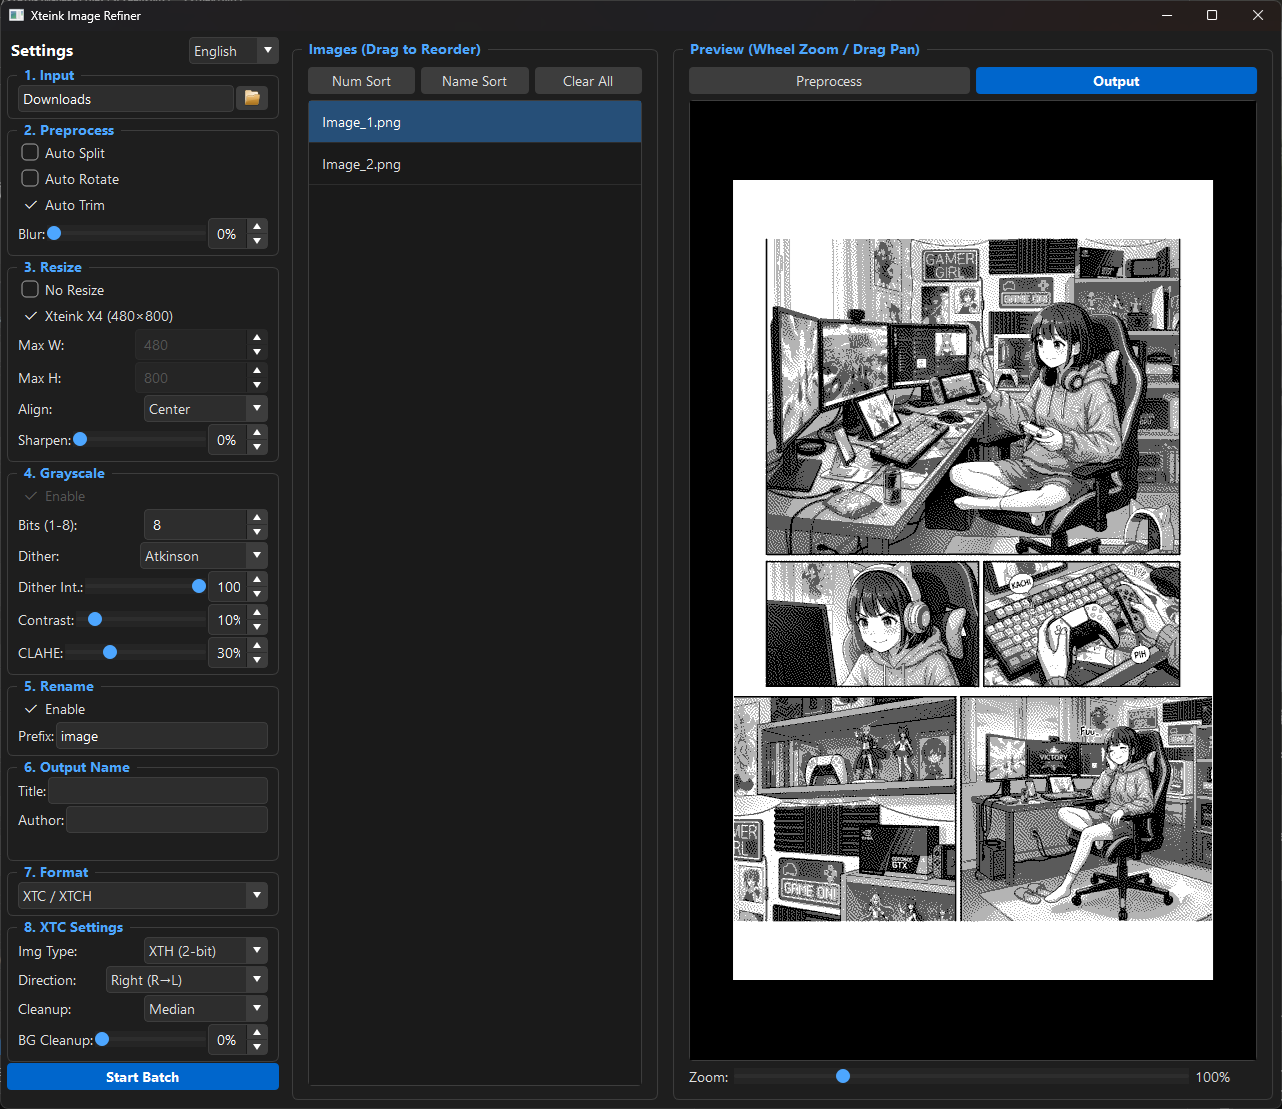
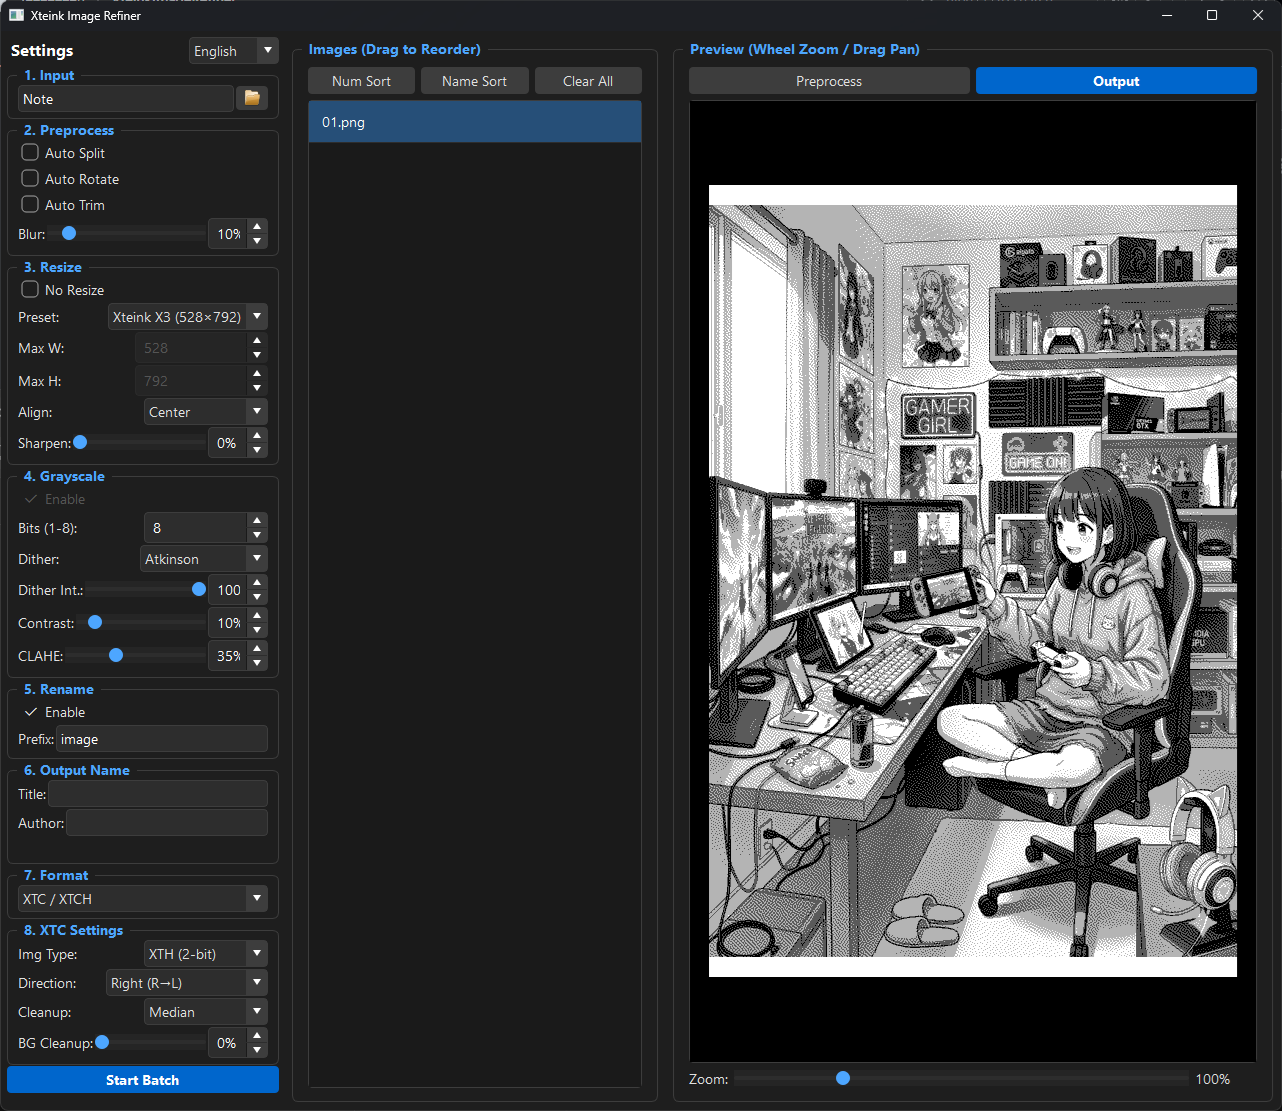
add preset X3 and bug fix

diff --git a/main.py b/main.py
@@ -50,6 +50,8 @@ _TRANSLATIONS = {
     "chk_auto_rotate":      {"ja": "自動回転",                "en": "Auto Rotate"},
     "chk_auto_trim":        {"ja": "余白自動トリミング",      "en": "Auto Trim"},
     "chk_no_resize":        {"ja": "リサイズなし",            "en": "No Resize"},
+    "lbl_preset":           {"ja": "プリセット:",             "en": "Preset:"},
+    "combo_preset_none":    {"ja": "なし",                    "en": "None"},
     "chk_enable":           {"ja": "有効にする",              "en": "Enable"},
     "chk_jpeg":             {"ja": "JPEG変換 (.jpg)",         "en": "JPEG Conv. (.jpg)"},
     # ラベル
@@ -724,9 +726,18 @@ class ImageEditorApp(QMainWindow):
         self.no_resize_check.toggled.connect(self.on_no_resize_changed)
         resize_grid.addWidget(self.no_resize_check)
 
-        self.x4_check = QCheckBox("Xteink X4 (480×800)")
-        self.x4_check.toggled.connect(self.on_x4_changed)
-        resize_grid.addWidget(self.x4_check)
+        preset_layout = QHBoxLayout()
+        self._preset_label = QLabel(_tr("lbl_preset", self._lang))
+        preset_layout.addWidget(self._preset_label)
+        self.preset_combo = QComboBox()
+        self.preset_combo.addItems([
+            _tr("combo_preset_none", self._lang),
+            "Xteink X3 (528×792)",
+            "Xteink X4 (480×800)",
+        ])
+        self.preset_combo.currentIndexChanged.connect(self.on_preset_changed)
+        preset_layout.addWidget(self.preset_combo)
+        resize_grid.addLayout(preset_layout)
 
         w_layout = QHBoxLayout()
         self.width_label = QLabel(_tr("lbl_max_w", self._lang))
@@ -1188,6 +1199,7 @@ class ImageEditorApp(QMainWindow):
         self.jpeg_check.setText(_tr("chk_jpeg", lang))
 
         # ラベル
+        self._preset_label.setText(_tr("lbl_preset", lang))
         self._blur_label.setText(_tr("lbl_blur", lang))
         self.width_label.setText(_tr("lbl_max_w", lang))
         self.height_label.setText(_tr("lbl_max_h", lang))
@@ -1226,6 +1238,7 @@ class ImageEditorApp(QMainWindow):
             combo.setCurrentIndex(idx)
             combo.blockSignals(False)
 
+        _update_combo(self.preset_combo, [_tr("combo_preset_none", lang), "Xteink X3 (528×792)", "Xteink X4 (480×800)"])
         _update_combo(self.alignment_combo, [_tr("combo_center", lang), _tr("combo_top", lang)])
         _update_combo(self.output_format_combo, [_tr("combo_individual", lang), "EPUB3", "XTC / XTCH"])
         _update_combo(self.compress_combo, [_tr("combo_folder", lang), "ZIP (.zip)", "CBZ (.cbz)"])
@@ -1312,7 +1325,8 @@ class ImageEditorApp(QMainWindow):
     def _stop_trim_detection(self):
         if self._trim_detect_thread is not None:
             self._trim_detect_thread.abort()
-            self._trim_detect_thread.wait(3000)
+            if not self._trim_detect_thread.wait(3000):
+                self._trim_detect_thread.terminate()
             self._trim_detect_thread.deleteLater()
             self._trim_detect_thread = None
 
@@ -1433,10 +1447,12 @@ class ImageEditorApp(QMainWindow):
 
     def on_no_resize_changed(self, checked):
         no_resize = checked
+        preset_active = self.preset_combo.currentIndex() != 0
         # リサイズなし時は関連設定を無効化
-        self.x4_check.setEnabled(not no_resize)
-        self.width_spin.setEnabled(not no_resize and not self.x4_check.isChecked())
-        self.height_spin.setEnabled(not no_resize and not self.x4_check.isChecked())
+        self._preset_label.setEnabled(not no_resize)
+        self.preset_combo.setEnabled(not no_resize)
+        self.width_spin.setEnabled(not no_resize and not preset_active)
+        self.height_spin.setEnabled(not no_resize and not preset_active)
         self.width_label.setEnabled(not no_resize)
         self.height_label.setEnabled(not no_resize)
         self.alignment_label.setEnabled(not no_resize)
@@ -1449,15 +1465,18 @@ class ImageEditorApp(QMainWindow):
         self.zoom_slider.setValue(100)
         self.refresh_preview()
 
-    def on_x4_changed(self, checked):
+    def on_preset_changed(self, index):
         no_resize = self.no_resize_check.isChecked()
-        self.width_spin.setEnabled(not checked and not no_resize)
-        self.height_spin.setEnabled(not checked and not no_resize)
+        preset_active = index != 0
+        self.width_spin.setEnabled(not preset_active and not no_resize)
+        self.height_spin.setEnabled(not preset_active and not no_resize)
         self.width_label.setEnabled(not no_resize)
         self.height_label.setEnabled(not no_resize)
-        if checked:
-            self.width_spin.setValue(480)
-            self.height_spin.setValue(800)
+        _PRESET_SIZES = {1: (528, 792), 2: (480, 800)}
+        if index in _PRESET_SIZES:
+            w, h = _PRESET_SIZES[index]
+            self.width_spin.setValue(w)
+            self.height_spin.setValue(h)
         self.refresh_preview()
 
     def load_stylesheet(self):
@@ -1483,7 +1502,7 @@ class ImageEditorApp(QMainWindow):
         s.setValue("no_resize",         self.no_resize_check.isChecked())
         s.setValue("width",            self.width_spin.value())
         s.setValue("height",           self.height_spin.value())
-        s.setValue("x4_preset",        self.x4_check.isChecked())
+        s.setValue("preset_index",     self.preset_combo.currentIndex())
         s.setValue("alignment",        self.alignment_combo.currentIndex())
         s.setValue("sharpen",          self.sharpen_slider.value())
         s.setValue("split",            self.split_check.isChecked())
@@ -1510,11 +1529,15 @@ class ImageEditorApp(QMainWindow):
 
     def load_settings(self):
         s = QSettings("antigravity", "XteinkImageRefiner")
-        # no_resize → 幅・高さ → X4 の順で読む（依存関係のため）
+        # no_resize → 幅・高さ → プリセット の順で読む（依存関係のため）
         self.no_resize_check.setChecked(   s.value("no_resize",        False, type=bool))
         self.width_spin.setValue(          s.value("width",            1920, type=int))
         self.height_spin.setValue(         s.value("height",           1080, type=int))
-        self.x4_check.setChecked(          s.value("x4_preset",        False, type=bool))
+        # 旧設定 (x4_preset=True) からの移行: preset_index が未設定なら x4_preset を参照
+        preset_idx = s.value("preset_index", -1, type=int)
+        if preset_idx < 0:
+            preset_idx = 2 if s.value("x4_preset", False, type=bool) else 0
+        self.preset_combo.setCurrentIndex(preset_idx)
         self.alignment_combo.setCurrentIndex(s.value("alignment",       0,    type=int))
         self.sharpen_slider.setValue(      s.value("sharpen",          0,    type=int))
         self.split_check.setChecked(       s.value("split",            False, type=bool))
@@ -1641,6 +1664,12 @@ class ImageEditorApp(QMainWindow):
 
             temp_dir = tempfile.mkdtemp(prefix="img_editor_")
             with zipfile.ZipFile(path, 'r') as zip_ref:
+                # ZIPスリップ対策: パストラバーサルを検出して拒否
+                real_temp = os.path.realpath(temp_dir)
+                for info in zip_ref.infolist():
+                    target = os.path.realpath(os.path.join(temp_dir, info.filename))
+                    if not target.startswith(real_temp + os.sep) and target != real_temp:
+                        raise ValueError(f"不正なパスを含むZIP: {info.filename}")
                 zip_ref.extractall(temp_dir)
             self._temp_dirs.append(temp_dir)
             self._add_images_from_folder(temp_dir, name)
@@ -1698,7 +1727,7 @@ class ImageEditorApp(QMainWindow):
                 self.image_list_widget.addItem(item)
 
             # リストが空だった場合のみ、1枚目の解像度を初期値にセット
-            if was_empty and files and not self.x4_check.isChecked():
+            if was_empty and files and self.preset_combo.currentIndex() == 0:
                 first_path = files[0][0]
                 with Image.open(first_path) as img:
                     w, h = img.size
@@ -1738,7 +1767,7 @@ class ImageEditorApp(QMainWindow):
             return
 
         # リストが空だった場合のみ、1枚目の解像度を初期値にセット
-        if was_empty and not self.x4_check.isChecked():
+        if was_empty and self.preset_combo.currentIndex() == 0:
             try:
                 with Image.open(added[0]) as img:
                     w, h = img.size
@@ -1798,7 +1827,7 @@ class ImageEditorApp(QMainWindow):
             self.current_preview_image = None
 
     def refresh_preview(self):
-        if not self.current_preview_image or self._preview_running:
+        if self.current_preview_image is None or self._preview_running:
             return
         self._preview_running = True
 

diff --git a/image_processor.py b/image_processor.py
@@ -550,44 +550,38 @@ def save_xth(img: Image.Image, output_path: str, clean_intensity: int = 0, clean
         
     w, h = img_l.size
     
-    # 階調マッピング
+    # 階調マッピング (NumPyベクトル化)
     # Xteink LUT Level: 0=White, 1=Dark Grey, 2=Light Grey, 3=Black
-    def map_pixel(p):
-        if p > 191: return 0 # White
-        if p > 127: return 2 # Light Grey
-        if p > 63:  return 1 # Dark Grey
-        return 3             # Black
-    
+    arr = np.array(img_l, dtype=np.uint8)  # shape: (h, w)
+    mapped = np.full_like(arr, 3, dtype=np.uint8)  # default: Black (<=63)
+    mapped[arr > 191] = 0  # White
+    mapped[(arr > 127) & (arr <= 191)] = 2  # Light Grey
+    mapped[(arr > 63) & (arr <= 127)] = 1  # Dark Grey
+
     # XTHは Bit1 (MSB) と Bit2 (LSB) の2プレーン構成
     # pixelValue = (bit1 << 1) | bit2
-    
-    pixels = list(img_l.getdata())
-    bit1_data = [] # Bit1 planes
-    bit2_data = [] # Bit2 planes
-    
-    # 垂直スキャン (右から左、上から下)
-    # Columns: width-1 down to 0
-    # Rows: Groups of 8 vertical pixels
-    
-    for x in range(w-1, -1, -1):
-        for y_start in range(0, h, 8):
-            b1 = 0
-            b2 = 0
-            for i in range(8):
-                y = y_start + i
-                if y < h:
-                    val = map_pixel(pixels[y * w + x])
-                    bit1 = (val >> 1) & 1
-                    bit2 = val & 1
-                    # MSB (bit 7) = topmost pixel
-                    if bit1: b1 |= (1 << (7 - i))
-                    if bit2: b2 |= (1 << (7 - i))
-            bit1_data.append(b1)
-            bit2_data.append(b2)
-            
-    plane1 = bytes(bit1_data)
-    plane2 = bytes(bit2_data)
-    full_data = plane1 + plane2
+
+    # 高さを8の倍数にパディング（不足分は0=White）
+    pad_h = (8 - h % 8) % 8
+    if pad_h:
+        mapped = np.pad(mapped, ((0, pad_h), (0, 0)), constant_values=0)
+
+    # 垂直スキャン (右から左、上から下、8ピクセル単位でビットパッキング)
+    # 列を反転: 右→左
+    mapped = mapped[:, ::-1]
+    # (h_padded, w) → (w, groups, 8) に変形
+    h_padded = mapped.shape[0]
+    mapped = mapped.T.reshape(w, h_padded // 8, 8)
+
+    bit1_arr = (mapped >> 1) & 1  # MSBプレーン
+    bit2_arr = mapped & 1         # LSBプレーン
+
+    # 8ビットを1バイトにパッキング (MSB = bit7 = topmost pixel)
+    weights = np.array([128, 64, 32, 16, 8, 4, 2, 1], dtype=np.uint8)
+    plane1 = (bit1_arr * weights).sum(axis=2).astype(np.uint8)
+    plane2 = (bit2_arr * weights).sum(axis=2).astype(np.uint8)
+
+    full_data = plane1.tobytes() + plane2.tobytes()
     
     data_size = len(full_data)
     # MD5はオプションだが、一応計算

diff --git a/README.md b/README.md
@@ -17,6 +17,7 @@ A desktop application for optimizing and converting manga and scanned images for
 - **Auto margin detection & manual adjustment**: Drag crop handles to fine-tune
 - **Auto split**: Automatically split spread pages into two based on aspect ratio
 - **Dithering**: Floyd-Steinberg / Atkinson / Sauvola algorithms (1-bit / 2-bit / 8-bit)
+- **Device presets**: Built-in resolution presets for Xteink X3 (528x792) and X4 (480x800)
 - **No-resize mode**: For sorting, renaming, and packing images without resizing
 - **Auto metadata extraction**: Parses `[Author] Title` from folder/ZIP names
 - **Japanese / English UI**: Switch language from the settings panel
@@ -67,6 +68,24 @@ For details on the XTG / XTH / XTC / XTCH formats used by Xteink devices:
 
 - [XTC-XTG-XTH-XTCH.md](XTC-XTG-XTH-XTCH.md) (English)
 - [XTC-XTG-XTH-XTCH_jp.md](XTC-XTG-XTH-XTCH_jp.md) (Japanese)
+
+## Changelog
+
+### 2026-04-04
+
+- Added device preset selector (Xteink X3 528x792 / X4 480x800) replacing the X4-only checkbox
+- Fixed ZIP slip vulnerability with path traversal validation on extraction
+- Improved TrimDetectThread shutdown reliability with terminate fallback
+- Optimized XTH save performance by replacing Python loops with NumPy vectorized operations
+
+### 2026-03-08
+
+- Added Japanese / English UI language switching
+- Improved author name auto-fill (leave blank instead of "Unknown" when not detected)
+
+### 2026-03-01
+
+- Initial release
 
 ## Note
 
